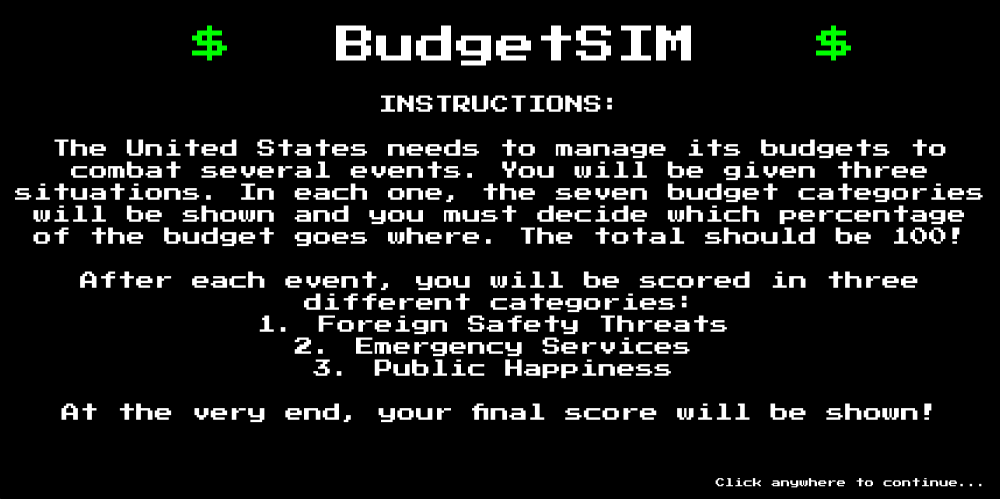
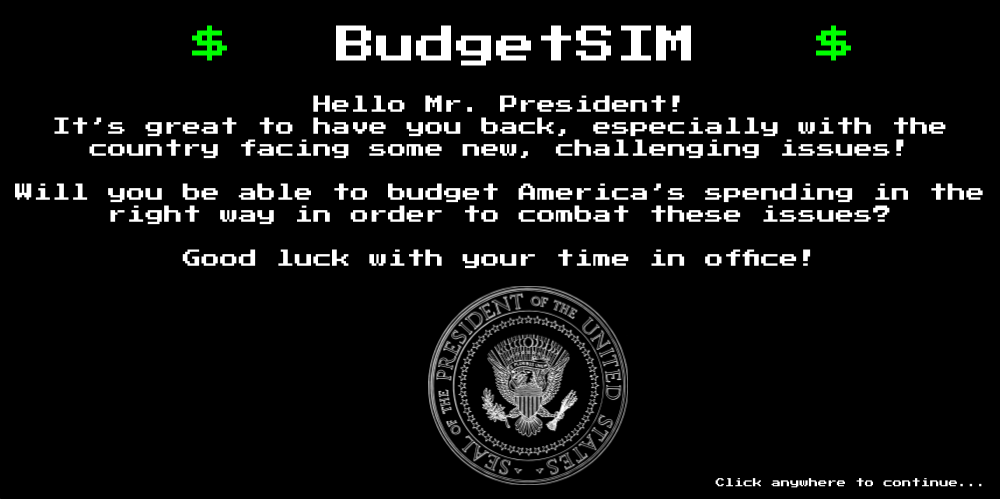
updated BudgetSIM

diff --git a/Main.py b/Main.py
@@ -1,17 +1,20 @@
 #####################
-# IMPORT STATEMENTS #
+# IMPORT STATEMENTS   #
 #####################
 import pygame
 assert pygame.init() == (6, 0)
 from pygame.locals import *
 from random import random, randint
 import webbrowser
+from time import sleep
 
 ##########
-# IMAGES  #
+# IMAGES    #
 ##########
 load = pygame.image.load
+
 screen1 = load("img/screen1.png")
+instructions = load("img/instructions.png")
 
 opioidEpidemic = load("img/opioidepidemic.png")
 iraqWar = load("img/iraqwar.png")
@@ -21,14 +24,14 @@ spinner = load("img/spinner.png")
 cont = load("img/continue.png")
 info = load("img/info.png")
 
-p_bar = load("img/progress_bar.png")
+scorebar = load("img/scorebar.png")
 
 #################
-# INSTANTIATING   #
+# INSTANTIATING      #
 #################
 FONT = pygame.font.Font("img/PressStart2P-Regular.ttf", 30)
 SPINNERS = [(50, 165), (250, 165), (475, 165), (715, 165), (75, 275), (400, 275), (675, 275)]
-values = [14, 14, 14, 14, 14, 14, 15]
+values = [14, 14, 14, 14, 14, 15, 15]
 txt = []
 screen = pygame.display.set_mode((1000, 500))
 pygame.display.set_caption("Congressional Budget Manager -- MM Olde Games")
@@ -70,7 +73,8 @@ def blitSpinners():
     for i in range(len(SPINNERS)):
         screen.blit(spinner, SPINNERS[i])
         screen.blit(txt[i], (SPINNERS[i][0] + 50, SPINNERS[i][1] + 25))
-    screen.blit(cont, (0, 450))
+    if sum(values) == 100:
+        screen.blit(cont, (0, 450))
     screen.blit(info, (0, 0))
     #screen.blit(cursor, pygame.mouse.get_pos())
     pygame.display.flip()
@@ -79,9 +83,16 @@ def blitSpinners():
 # MAIN FUNCTION  #
 ##################
 initScr = True
+screen.blit(screen1, (0, 0))
+pygame.display.flip()
 while initScr:
-    screen.blit(screen1, (0, 0))
-    pygame.display.flip()
+    for event in pygame.event.get():
+        if event.type == MOUSEBUTTONDOWN:
+            initScr = False
+initScr = True
+screen.blit(instructions, (0, 0))
+pygame.display.flip()
+while initScr:
     for event in pygame.event.get():
         if event.type == MOUSEBUTTONDOWN:
             initScr = False
@@ -125,12 +136,12 @@ for i in range(3): # three events will be simulated
     for i in range(len(metrics)):
         if metrics[i] > av[i]:
             metrics[i] = av[i]
-    screen.blit(FONT.render("Foreign Threat Safety: " + str(metrics[0]) + "/" + str(av[0]), False, (255, 255, 255)), (20, 20))
-    screen.blit(FONT.render("#" * (metrics[0] // 5), False, (50, 255, 50)), (20, 60))
-    screen.blit(FONT.render("Emergency Services: " + str(metrics[1]) + "/" + str(av[1]), False, (255, 255, 255)), (20, 160))
-    screen.blit(FONT.render("#" * (metrics[1] // 5), False, (50, 255, 50)), (20, 200))
-    screen.blit(FONT.render("Public Happiness: " + str(metrics[2]) + "/" + str(av[2]), False, (255, 255, 255)), (20, 300))
-    screen.blit(FONT.render("#" * (metrics[2] // 5), False, (50, 255, 50)), (20, 340))
+    screen.blit(FONT.render("Foreign Threat Safety: " + str(int(metrics[0] / av[0] * 100)) + "/100", False, (255, 255, 255)), (20, 20))
+    screen.blit(FONT.render("#" * int(metrics[0] / av[0] * 30), False, (50, 255, 50)), (20, 60))
+    screen.blit(FONT.render("Emergency Services: " + str(int(metrics[1] / av[1] * 100)) + "/100", False, (255, 255, 255)), (20, 160))
+    screen.blit(FONT.render("#" * int(metrics[1] / av[1] * 30), False, (50, 255, 50)), (20, 200))
+    screen.blit(FONT.render("Public Happiness: " + str(int(metrics[2] / av[2] * 100)) + "/100", False, (255, 255, 255)), (20, 300))
+    screen.blit(FONT.render("#" * int(metrics[2] / av[2] * 30), False, (50, 255, 50)), (20, 340))
     screen.blit(cont, (0, 450))
     pygame.display.flip()
     while viewingScore:
@@ -145,6 +156,14 @@ color = (int(abs(100 - finalScore) / 100 * 255), int(finalScore / 100 * 255), 0)
 screen.blit(FONT.render("Final Score: " + str(finalScore) + "/100", False, color), (20, 100))
 screen.blit(cont, (0, 450))
 pygame.display.flip()
+drawingScore = int(finalScore / 100 * 1000)
+dr_init = drawingScore
+while drawingScore:
+    screen.blit(scorebar, (0, 150))
+    pygame.draw.rect(screen, (0, 0, 0), (dr_init - drawingScore, 150, 1000, 50))
+    pygame.display.flip()
+    drawingScore -= 5
+    pygame.event.get()
 viewingScore = True
 while viewingScore:
     pygame.event.clear()
